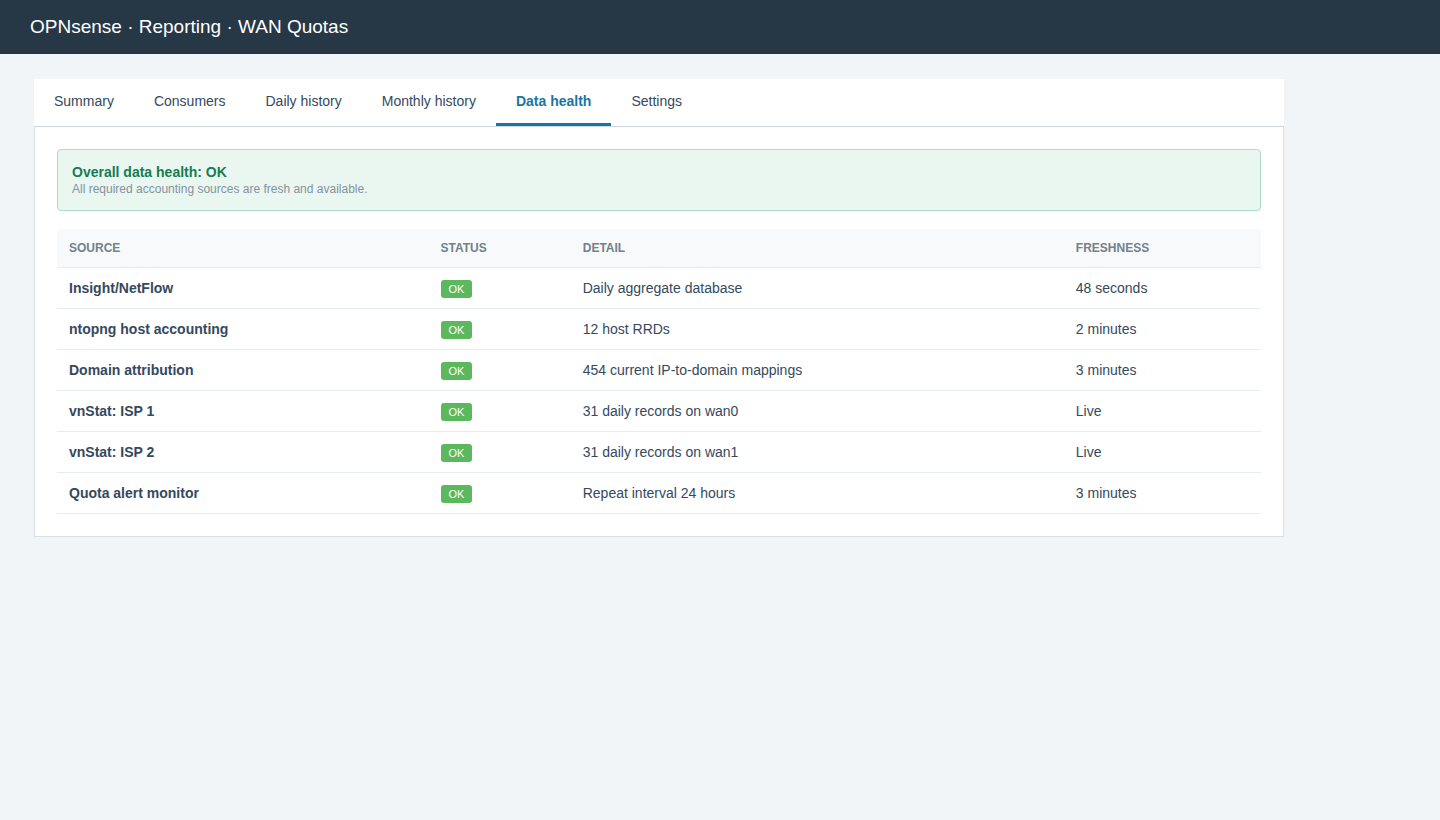
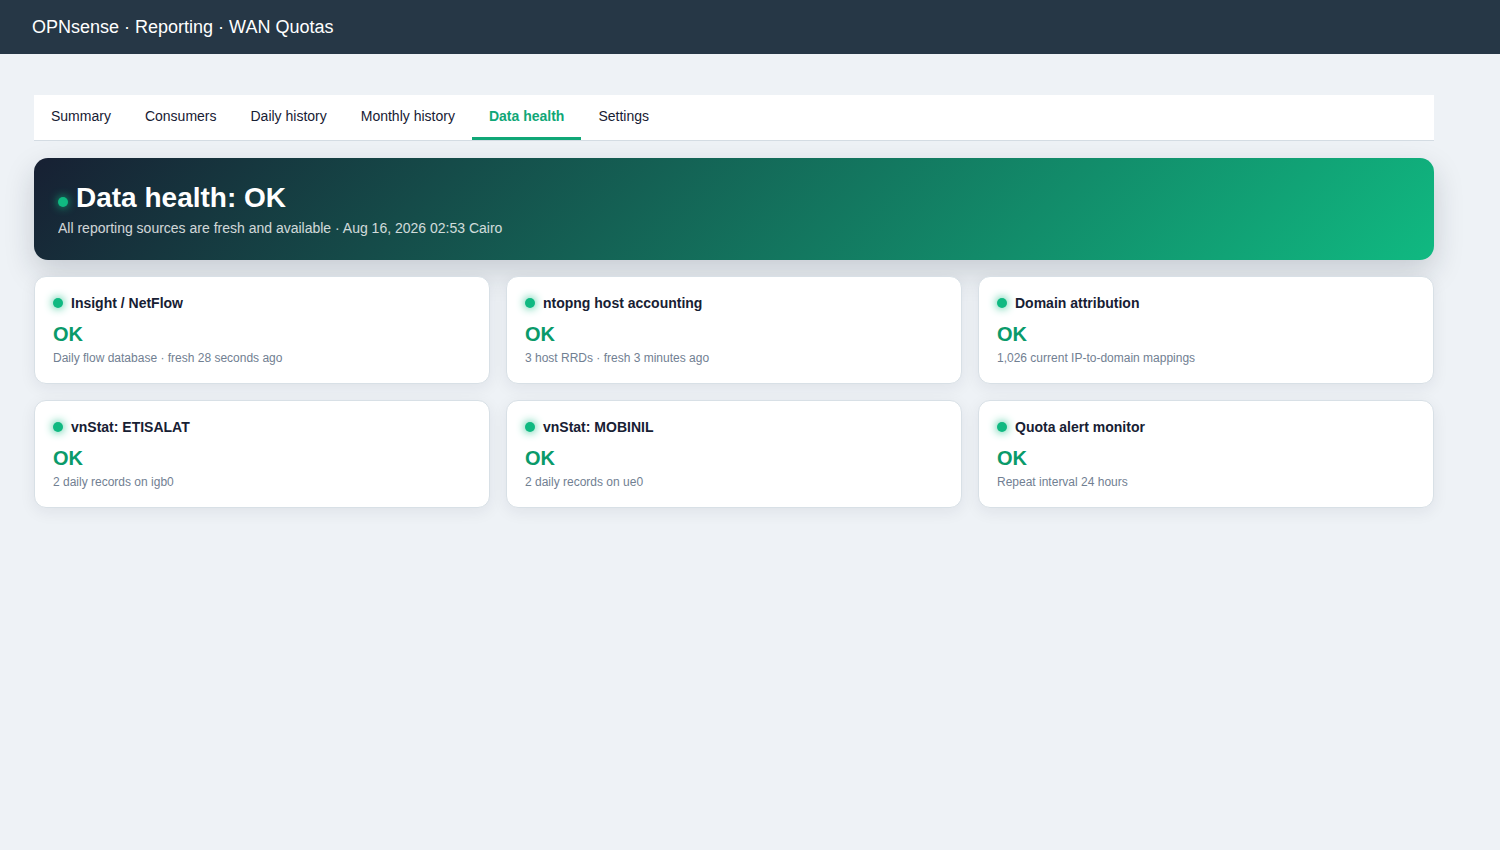
Refresh screenshots for visual dashboard

Changed region(s): [[0.0, 0.122, 0.9688, 0.6098], [0.0312, 0.0, 0.25, 0.061]]

diff --git a/docs/mockups/dashboard-widgets.html b/docs/mockups/dashboard-widgets.html
@@ -1,15 +1,3 @@
-<!doctype html>
-<meta charset="utf-8">
-<title>WAN Quota dashboard widgets</title>
-<style>
-body{margin:0;background:#eef2f5;color:#34495e;font:14px -apple-system,BlinkMacSystemFont,"Segoe UI",sans-serif}.top{height:54px;background:#263746;color:#fff;display:flex;align-items:center;padding:0 30px;font-size:19px}.page{padding:28px}.heading{font-size:23px;margin-bottom:20px}.grid{display:grid;grid-template-columns:1.2fr 1fr .9fr;gap:18px;max-width:1500px}.card{background:#fff;border:1px solid #d8e0e6;border-radius:6px;box-shadow:0 2px 8px #24405b18;overflow:hidden}.title{padding:14px 17px;border-bottom:1px solid #e5eaee;font-size:16px;font-weight:600}.body{padding:14px 17px}table{border-collapse:collapse;width:100%}th,td{text-align:left;padding:10px 8px;border-bottom:1px solid #edf0f2}th{font-size:12px;text-transform:uppercase;color:#738494}.provider,.device{color:#1976a3;font-weight:650}.meta{font-size:12px;color:#84929e;margin-top:3px}.meter{height:7px;background:#e7edf1;border-radius:5px;overflow:hidden;margin-top:5px}.fill{height:100%;background:#25a86f}.fill.warn{background:#eea236}.button{float:right;margin-top:13px;border:1px solid #b9c5ce;border-radius:4px;padding:7px 11px;color:#276f94;background:#fafcfd}.clearfix{clear:both}.badge{font-size:11px;background:#eaf7f1;color:#168555;padding:3px 7px;border-radius:10px}
-</style>
-<div class="top">OPNsense · Dashboard</div>
-<main class="page"><div class="heading">Network overview</div><div class="grid">
-<section class="card"><div class="title">WAN Quotas <span class="badge">Live</span></div><div class="body"><table><thead><tr><th>Provider</th><th>Download</th><th>Upload</th><th>Used</th><th>Remaining</th></tr></thead><tbody>
-<tr><td><span class="provider">ISP 1</span><div class="meta">Aug 1 – Sep 1 · wan0</div></td><td>46.20 GB</td><td>3.80 GB</td><td>50.00 GB (50%)<div class="meter"><div class="fill" style="width:50%"></div></div></td><td>50.00 GB<div class="meta">16 days · 3.13 GB/day</div></td></tr>
-<tr><td><span class="provider">ISP 2</span><div class="meta">Aug 15 – Sep 15 · wan1</div></td><td>71.40 GB</td><td>8.60 GB</td><td>80.00 GB (80%)<div class="meter"><div class="fill warn" style="width:80%"></div></div></td><td>20.00 GB<div class="meta">30 days · 0.67 GB/day</div></td></tr></tbody></table><div class="button">↗ Open full report</div><div class="clearfix"></div></div></section>
-<section class="card"><div class="title">Top WAN Consumers</div><div class="body"><table><thead><tr><th>Device</th><th>Download</th><th>Upload</th><th>Total</th></tr></thead><tbody>
-<tr><td><span class="device">Workstation</span><div class="meta">192.0.2.20</div></td><td>35.20 GB</td><td>4.10 GB</td><td><b>39.30 GB</b></td></tr><tr><td><span class="device">Living Room TV</span><div class="meta">192.0.2.30</div></td><td>22.70 GB</td><td>0.40 GB</td><td><b>23.10 GB</b></td></tr><tr><td><span class="device">Game Console</span><div class="meta">192.0.2.40</div></td><td>14.30 GB</td><td>1.80 GB</td><td><b>16.10 GB</b></td></tr></tbody></table><div class="button">↗ Devices &amp; domains</div><div class="clearfix"></div></div></section>
-<section class="card"><div class="title">Top WAN Domains</div><div class="body"><div class="meta" style="margin-bottom:8px">ⓘ Coverage: <b>43.0%</b></div><table><thead><tr><th>Attributed domain</th><th>Usage</th></tr></thead><tbody><tr><td><span class="device">video.example</span><div class="meta">14 observed IPs</div></td><td><b>18.32 GB</b></td></tr><tr><td><span class="device">updates.example</span><div class="meta">8 observed IPs</div></td><td><b>9.74 GB</b></td></tr><tr><td><span class="device">cloud.example</span><div class="meta">5 observed IPs</div></td><td><b>5.18 GB</b></td></tr></tbody></table><div class="button">↗ Open domain report</div><div class="clearfix"></div></div></section>
-</div></main>
+<!doctype html><meta charset="utf-8"><title>WAN Intelligence summary</title>
+<style>body{margin:0;background:#eef2f6;color:#172033;font:14px Inter,-apple-system,BlinkMacSystemFont,"Segoe UI",sans-serif}.top{height:54px;background:#263746;color:white;display:flex;align-items:center;padding:0 32px;font-size:18px}.page{padding:26px 34px;max-width:1400px}.hero{padding:24px;border-radius:14px;background:linear-gradient(135deg,#172033,#253656 60%,#1677a8);color:white;box-shadow:0 12px 30px #1720332e}.hero h1{margin:0 0 6px;font-size:25px}.hero p{margin:0;opacity:.78}.tabs{display:flex;margin-top:18px;background:white;border-bottom:1px solid #d4dce3}.tab{padding:13px 18px}.active{color:#1677a8;border-bottom:3px solid #1677a8;font-weight:700}.grid{display:grid;grid-template-columns:repeat(2,1fr);gap:16px;margin-top:16px}.metrics{grid-template-columns:repeat(2,1fr)}.card{background:white;border:1px solid #d8e0e6;border-radius:12px;padding:17px;box-shadow:0 4px 16px #17203312}.muted{color:#718092;font-size:12px}.metric{font-size:27px;font-weight:750;margin:7px 0}.meter{height:8px;background:#e7edf2;border-radius:8px;overflow:hidden;margin:12px 0}.fill{height:100%;background:linear-gradient(90deg,#3b82f6,#06b6d4)}h3{margin:0 0 12px;font-size:15px}.chart{height:230px;display:flex;align-items:flex-end;gap:30px;padding:8px 30px 22px;border-left:1px solid #dce3e8;border-bottom:1px solid #dce3e8}.barset{height:100%;flex:1;display:flex;align-items:flex-end;gap:7px;position:relative}.bar{flex:1;border-radius:5px 5px 0 0;background:#3b82f6}.bar.remain{background:#d5dde5}.label{position:absolute;bottom:-20px;width:100%;text-align:center;font-size:12px}.donut{width:170px;height:170px;margin:20px auto;border-radius:50%;background:conic-gradient(#3b82f6 0 72%,#06b6d4 72% 78%,#8b5cf6 78% 96%,#f59e0b 96%);position:relative}.donut:after{content:"Traffic mix";position:absolute;inset:35px;border-radius:50%;background:white;display:flex;align-items:center;justify-content:center;font-weight:700}.legend{text-align:center;color:#64748b;font-size:12px}</style>
+<div class="top">OPNsense · Reporting · WAN Quotas</div><main class="page"><section class="hero"><h1>◉ WAN Intelligence</h1><p>Quota health, traffic trends, consumers and domain attribution in one place.</p></section><nav class="tabs"><div class="tab active">Summary</div><div class="tab">Consumers</div><div class="tab">Daily history</div><div class="tab">Monthly history</div><div class="tab">Data health</div><div class="tab">Settings</div></nav><div class="grid metrics"><div class="card"><div class="muted">wan → igb0</div><h3>ETISALAT</h3><div class="metric">36.4%</div><div class="meter"><div class="fill" style="width:36.4%"></div></div><b>89.04 GB</b> remaining<div class="muted">16 days left · 5.57 GB/day budget</div></div><div class="card"><div class="muted">opt1 → ue0</div><h3>MOBINIL</h3><div class="metric">21.8%</div><div class="meter"><div class="fill" style="width:21.8%"></div></div><b>312.80 GB</b> remaining<div class="muted">29 days left · 10.79 GB/day budget</div></div></div><div class="grid"><div class="card"><h3>Provider quota comparison</h3><div class="chart"><div class="barset"><div class="bar" style="height:36%"></div><div class="bar remain" style="height:64%"></div><div class="label">ETISALAT</div></div><div class="barset"><div class="bar" style="height:22%"></div><div class="bar remain" style="height:78%"></div><div class="label">MOBINIL</div></div></div></div><div class="card"><h3>Download and upload mix</h3><div class="donut"></div><div class="legend">● Etisalat download &nbsp; ● upload &nbsp; ● Mobinil download &nbsp; ● upload</div></div></div></main>

diff --git a/docs/mockups/consumer-report.html b/docs/mockups/consumer-report.html
@@ -1,8 +1,1 @@
-<!doctype html>
-<meta charset="utf-8"><title>WAN Quota consumers</title>
-<style>
-body{margin:0;background:#f2f5f7;color:#34495e;font:14px -apple-system,BlinkMacSystemFont,"Segoe UI",sans-serif}.top{height:54px;background:#263746;color:#fff;display:flex;align-items:center;padding:0 30px;font-size:19px}.page{padding:25px 34px;max-width:1250px}.tabs{display:flex;background:#fff;border-bottom:1px solid #ccd6dd}.tab{padding:14px 20px}.active{color:#1976a3;border-bottom:3px solid #1976a3;font-weight:600}.panel{background:#fff;padding:22px;border:1px solid #d8e0e6;border-top:0}.controls{display:flex;gap:10px;align-items:center}.select,.refresh{border:1px solid #bcc8d1;border-radius:4px;padding:8px 12px;background:#fff}.refresh{background:#1976a3;color:#fff}.section{font-size:19px;margin:23px 0 9px}table{border-collapse:collapse;width:100%}th,td{text-align:left;padding:10px;border-bottom:1px solid #e7ecef}th{background:#f7f9fa;color:#71818d;font-size:12px;text-transform:uppercase}.name{color:#1976a3;font-weight:650}.meta{font-size:12px;color:#84929e}.coverage{margin-top:18px;padding:13px 15px;border:1px solid #b8dce9;background:#eaf6fa;border-radius:4px;color:#286174}.bar{height:8px;background:#d5e9f0;border-radius:5px;margin-top:8px;overflow:hidden}.bar div{height:100%;width:43%;background:#2398c5}
-</style>
-<div class="top">OPNsense · Reporting · WAN Quotas</div><main class="page"><nav class="tabs"><div class="tab">Summary</div><div class="tab active">Consumers</div><div class="tab">Daily history</div><div class="tab">Monthly history</div><div class="tab">Settings</div></nav><div class="panel"><div class="controls"><b>Period</b><div class="select">Last 30 days ▾</div><div class="refresh">Refresh</div></div>
-<div class="section">Top LAN consumers</div><table><thead><tr><th>Device</th><th>Download</th><th>Upload</th><th>Total</th></tr></thead><tbody><tr><td><span class="name">Workstation</span><div class="meta">192.0.2.20</div></td><td>35.200 GB</td><td>4.100 GB</td><td><b>39.300 GB</b></td></tr><tr><td><span class="name">Living Room TV</span><div class="meta">192.0.2.30</div></td><td>22.700 GB</td><td>0.400 GB</td><td><b>23.100 GB</b></td></tr></tbody></table>
-<div class="section">Top attributed domains</div><table><thead><tr><th>Attributed domain</th><th>Observed IPs</th><th>Attributed total</th></tr></thead><tbody><tr><td><span class="name">video.example</span></td><td>14</td><td><b>18.320 GB</b></td></tr><tr><td><span class="name">updates.example</span></td><td>8</td><td><b>9.740 GB</b></td></tr><tr><td><span class="name">cloud.example</span></td><td>5</td><td><b>5.180 GB</b></td></tr></tbody></table><div class="coverage"><b>Domain attribution coverage: 43.0%</b><div class="bar"><div></div></div><div class="meta" style="margin-top:7px">Insight flow bytes correlated with recently observed Unbound DNS answers. Encrypted DNS, VPNs, ECH, shared CDN IPs, and uncached answers can remain unattributed.</div></div></div></main>
+<!doctype html><meta charset="utf-8"><title>WAN Intelligence consumers</title><style>body{margin:0;background:#eef2f6;color:#172033;font:14px Inter,-apple-system,"Segoe UI",sans-serif}.top{height:54px;background:#263746;color:white;display:flex;align-items:center;padding:0 32px;font-size:18px}.page{padding:24px 34px;max-width:1400px}.hero{padding:22px;border-radius:14px;background:linear-gradient(135deg,#172033,#253656 60%,#1677a8);color:white}.hero h1{margin:0 0 5px}.hero p{margin:0;opacity:.78}.tabs{display:flex;margin-top:16px;background:white;border-bottom:1px solid #d4dce3}.tab{padding:13px 17px}.active{color:#1677a8;border-bottom:3px solid #1677a8;font-weight:700}.toolbar{padding:15px;background:white;display:flex;gap:8px;align-items:center}.btn{border:1px solid #bbc7d0;border-radius:5px;padding:8px 12px;background:white}.primary{background:#1677a8;color:white}.grid{display:grid;grid-template-columns:1fr 1fr;gap:16px}.card{background:white;border:1px solid #d8e0e6;border-radius:12px;padding:17px;box-shadow:0 4px 16px #17203312}h3{margin:0 0 15px}.bars{display:grid;grid-template-columns:145px 1fr 55px;gap:10px 12px;align-items:center}.track{height:18px;background:#e8edf2;border-radius:5px;overflow:hidden}.bar{height:100%;background:linear-gradient(90deg,#3b82f6,#06b6d4)}.purple{background:linear-gradient(90deg,#8b5cf6,#c084fc)}.small{font-size:12px;color:#718092}.coverage{margin-top:16px;padding:14px;border-radius:10px;background:#e9f7fb;border:1px solid #b8dfeb}.meter{height:8px;background:#cfe6ed;border-radius:8px;overflow:hidden;margin-top:9px}.meter div{height:100%;width:43%;background:#06b6d4}</style><div class="top">OPNsense · Reporting · WAN Quotas</div><main class="page"><div class="hero"><h1>◉ WAN Intelligence</h1><p>Quota health, traffic trends, consumers and domain attribution in one place.</p></div><div class="tabs"><div class="tab">Summary</div><div class="tab active">Consumers</div><div class="tab">Daily history</div><div class="tab">Monthly history</div><div class="tab">Data health</div><div class="tab">Settings</div></div><div class="toolbar"><b>Period</b><div class="btn">Last 30 days ▾</div><div class="btn primary">Refresh</div><div class="btn">⇩ CSV</div><div class="btn">⇩ JSON</div></div><div class="grid"><div class="card"><h3>Top LAN consumers</h3><div class="bars"><b>Workstation</b><div class="track"><div class="bar" style="width:100%"></div></div><b>39.3 GB</b><b>Living Room TV</b><div class="track"><div class="bar" style="width:59%"></div></div><b>23.1 GB</b><b>Game Console</b><div class="track"><div class="bar" style="width:41%"></div></div><b>16.1 GB</b><span class="small">Tablet</span><div class="track"><div class="bar" style="width:22%"></div></div><b>8.7 GB</b></div></div><div class="card"><h3>Top attributed domains</h3><div class="bars"><b>video.example</b><div class="track"><div class="bar purple" style="width:100%"></div></div><b>18.3 GB</b><b>updates.example</b><div class="track"><div class="bar purple" style="width:53%"></div></div><b>9.7 GB</b><b>cloud.example</b><div class="track"><div class="bar purple" style="width:28%"></div></div><b>5.2 GB</b><span class="small">games.example</span><div class="track"><div class="bar purple" style="width:19%"></div></div><b>3.5 GB</b></div></div></div><div class="coverage"><b>Domain attribution coverage: 43.0%</b><div class="meter"><div></div></div><div class="small" style="margin-top:7px">Insight flow bytes correlated with recently observed Unbound DNS answers. Encrypted DNS, VPNs, ECH and shared CDN IPs can remain unattributed.</div></div></main>

diff --git a/docs/mockups/data-health.html b/docs/mockups/data-health.html
@@ -1,1 +1,1 @@
-<!doctype html><meta charset="utf-8"><title>WAN quota data health</title><style>body{margin:0;background:#f2f5f7;color:#34495e;font:14px -apple-system,BlinkMacSystemFont,"Segoe UI",sans-serif}.top{height:54px;background:#263746;color:#fff;display:flex;align-items:center;padding:0 30px;font-size:19px}.page{padding:25px 34px;max-width:1250px}.tabs{display:flex;background:#fff;border-bottom:1px solid #ccd6dd}.tab{padding:14px 20px}.active{color:#1976a3;border-bottom:3px solid #1976a3;font-weight:600}.panel{background:#fff;padding:22px;border:1px solid #d8e0e6;border-top:0}.overall{padding:14px;background:#eaf7f1;border:1px solid #a9ddc5;border-radius:4px;color:#187b52;margin-bottom:18px}table{border-collapse:collapse;width:100%}th,td{text-align:left;padding:12px;border-bottom:1px solid #e7ecef}th{background:#f7f9fa;color:#71818d;font-size:12px;text-transform:uppercase}.ok{background:#5cb85c;color:#fff;padding:3px 8px;border-radius:3px;font-size:11px}.muted{color:#84929e;font-size:12px}</style><div class="top">OPNsense · Reporting · WAN Quotas</div><main class="page"><nav class="tabs"><div class="tab">Summary</div><div class="tab">Consumers</div><div class="tab">Daily history</div><div class="tab">Monthly history</div><div class="tab active">Data health</div><div class="tab">Settings</div></nav><div class="panel"><div class="overall"><b>Overall data health: OK</b><br><span class="muted">All required accounting sources are fresh and available.</span></div><table><thead><tr><th>Source</th><th>Status</th><th>Detail</th><th>Freshness</th></tr></thead><tbody><tr><td><b>Insight/NetFlow</b></td><td><span class="ok">OK</span></td><td>Daily aggregate database</td><td>48 seconds</td></tr><tr><td><b>ntopng host accounting</b></td><td><span class="ok">OK</span></td><td>12 host RRDs</td><td>2 minutes</td></tr><tr><td><b>Domain attribution</b></td><td><span class="ok">OK</span></td><td>454 current IP-to-domain mappings</td><td>3 minutes</td></tr><tr><td><b>vnStat: ISP 1</b></td><td><span class="ok">OK</span></td><td>31 daily records on wan0</td><td>Live</td></tr><tr><td><b>vnStat: ISP 2</b></td><td><span class="ok">OK</span></td><td>31 daily records on wan1</td><td>Live</td></tr><tr><td><b>Quota alert monitor</b></td><td><span class="ok">OK</span></td><td>Repeat interval 24 hours</td><td>3 minutes</td></tr></tbody></table></div></main>
+<!doctype html><meta charset="utf-8"><title>WAN Intelligence health</title><style>body{margin:0;background:#eef2f6;color:#172033;font:14px Inter,-apple-system,"Segoe UI",sans-serif}.top{height:54px;background:#263746;color:white;display:flex;align-items:center;padding:0 32px;font-size:18px}.page{padding:24px 34px;max-width:1400px}.hero{padding:24px;border-radius:14px;background:linear-gradient(135deg,#172033,#10b981);color:white;box-shadow:0 12px 30px #1720332e}.hero h1{margin:0 0 6px}.hero p{margin:0;opacity:.8}.tabs{display:flex;margin:17px 0;background:white;border-bottom:1px solid #d4dce3}.tab{padding:13px 17px}.active{color:#10a777;border-bottom:3px solid #10a777;font-weight:700}.grid{display:grid;grid-template-columns:repeat(3,1fr);gap:16px}.card{background:white;border:1px solid #d8e0e6;border-radius:12px;padding:18px;box-shadow:0 4px 16px #17203312}.dot{display:inline-block;width:10px;height:10px;border-radius:50%;background:#10b981;box-shadow:0 0 10px #10b981;margin-right:8px}.status{font-size:20px;font-weight:750;margin:12px 0 5px;color:#0a9a6a}.muted{font-size:12px;color:#718092}</style><div class="top">OPNsense · Reporting · WAN Quotas</div><main class="page"><div class="tabs"><div class="tab">Summary</div><div class="tab">Consumers</div><div class="tab">Daily history</div><div class="tab">Monthly history</div><div class="tab active">Data health</div><div class="tab">Settings</div></div><div class="hero"><h1><span class="dot"></span>Data health: OK</h1><p>All reporting sources are fresh and available · Aug 16, 2026 02:53 Cairo</p></div><div class="grid" style="margin-top:16px"><div class="card"><b><span class="dot"></span>Insight / NetFlow</b><div class="status">OK</div><div class="muted">Daily flow database · fresh 28 seconds ago</div></div><div class="card"><b><span class="dot"></span>ntopng host accounting</b><div class="status">OK</div><div class="muted">3 host RRDs · fresh 3 minutes ago</div></div><div class="card"><b><span class="dot"></span>Domain attribution</b><div class="status">OK</div><div class="muted">1,026 current IP-to-domain mappings</div></div><div class="card"><b><span class="dot"></span>vnStat: ETISALAT</b><div class="status">OK</div><div class="muted">2 daily records on igb0</div></div><div class="card"><b><span class="dot"></span>vnStat: MOBINIL</b><div class="status">OK</div><div class="muted">2 daily records on ue0</div></div><div class="card"><b><span class="dot"></span>Quota alert monitor</b><div class="status">OK</div><div class="muted">Repeat interval 24 hours</div></div></div></main>
